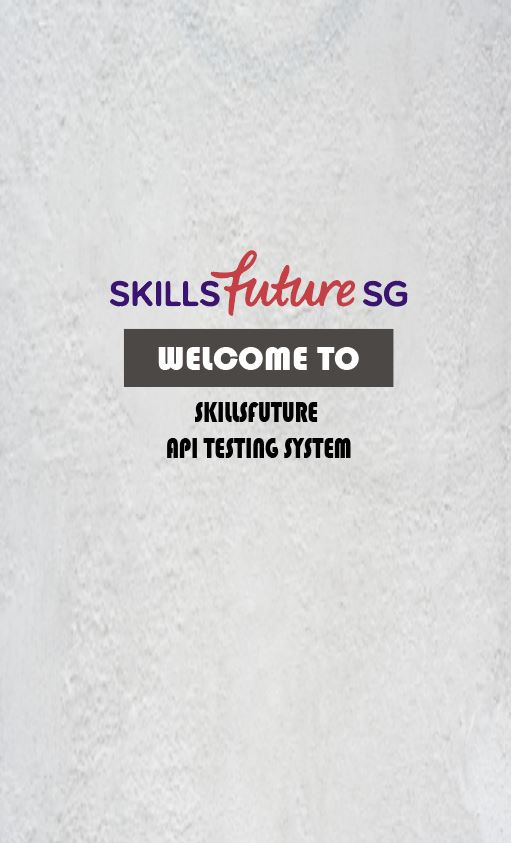
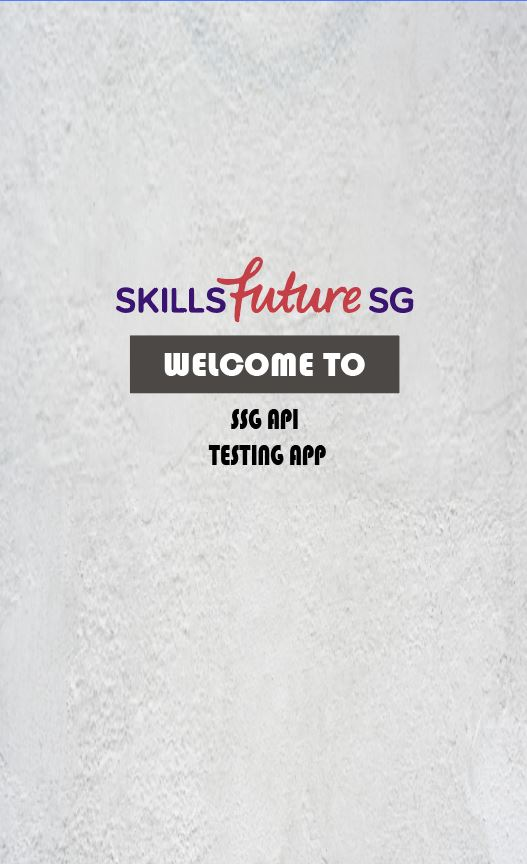
change name

diff --git a/main.py b/main.py
@@ -167,6 +167,6 @@ class StartPage(tk.Frame):
 
 app = APIProject()
 app.geometry("500x747")
-app.winfo_toplevel().title("SSG-WSG API Application")
+app.winfo_toplevel().title("SSG API Testing Application")
 app.resizable(0, 0)
 app.mainloop()
